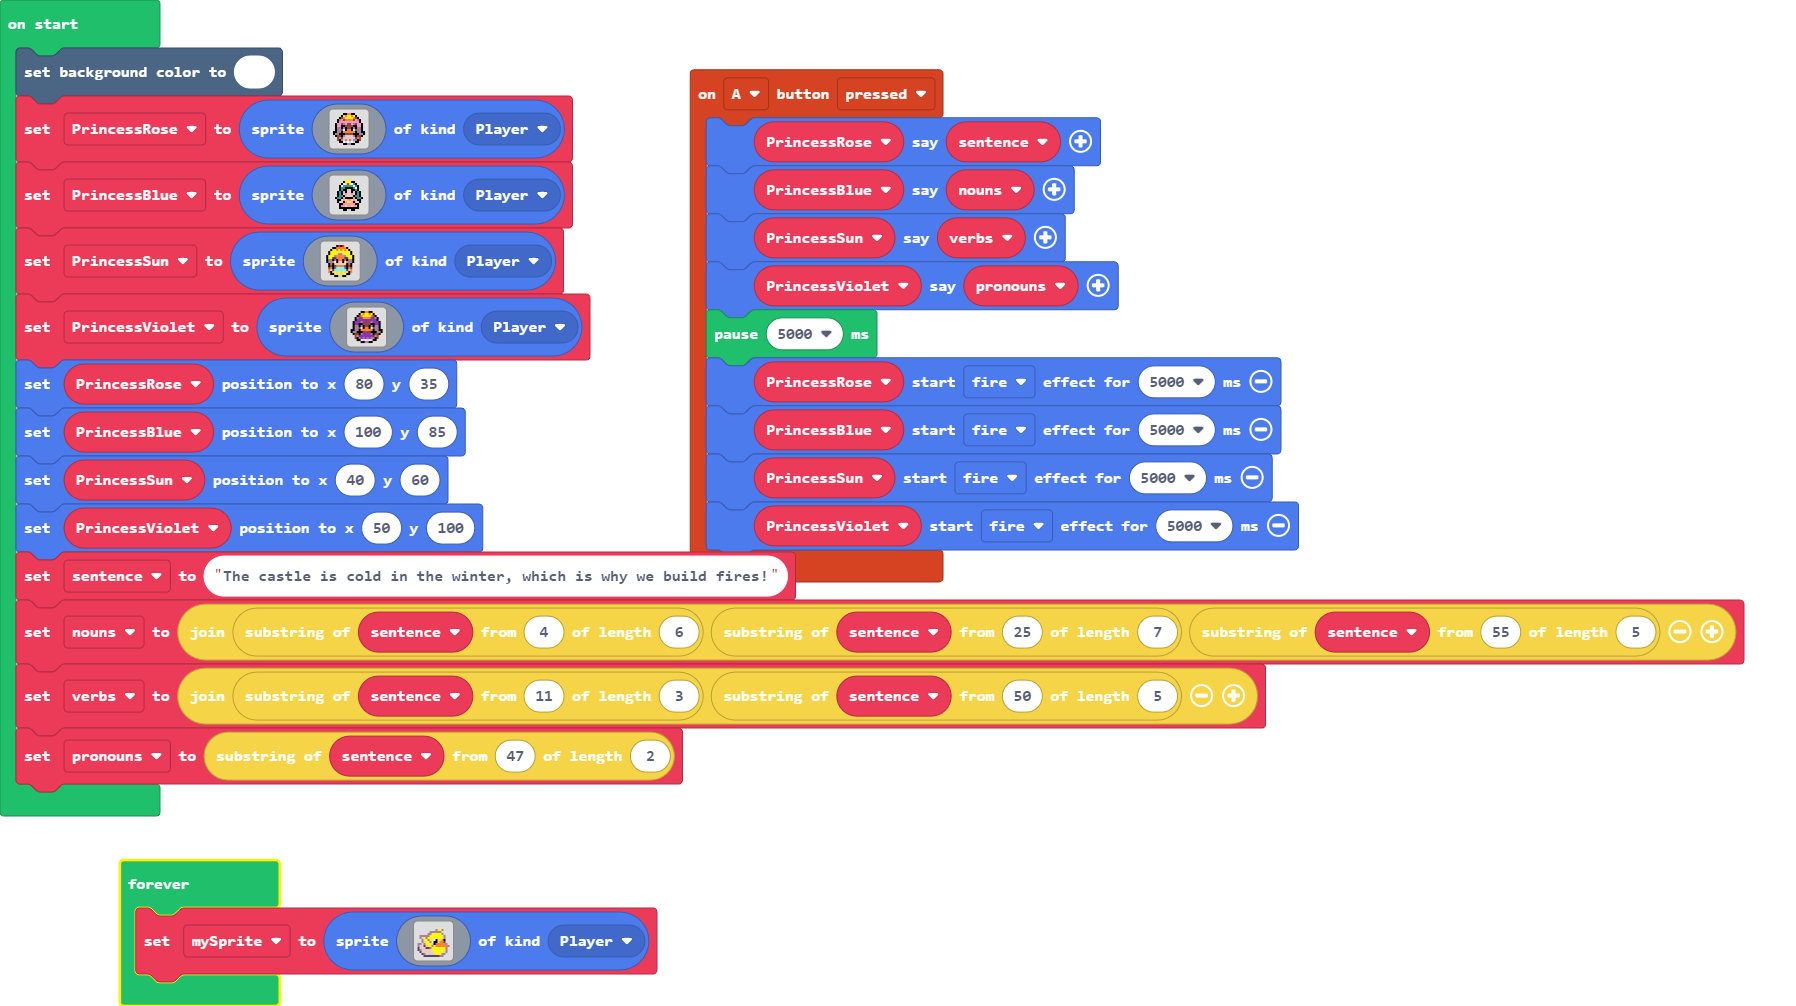
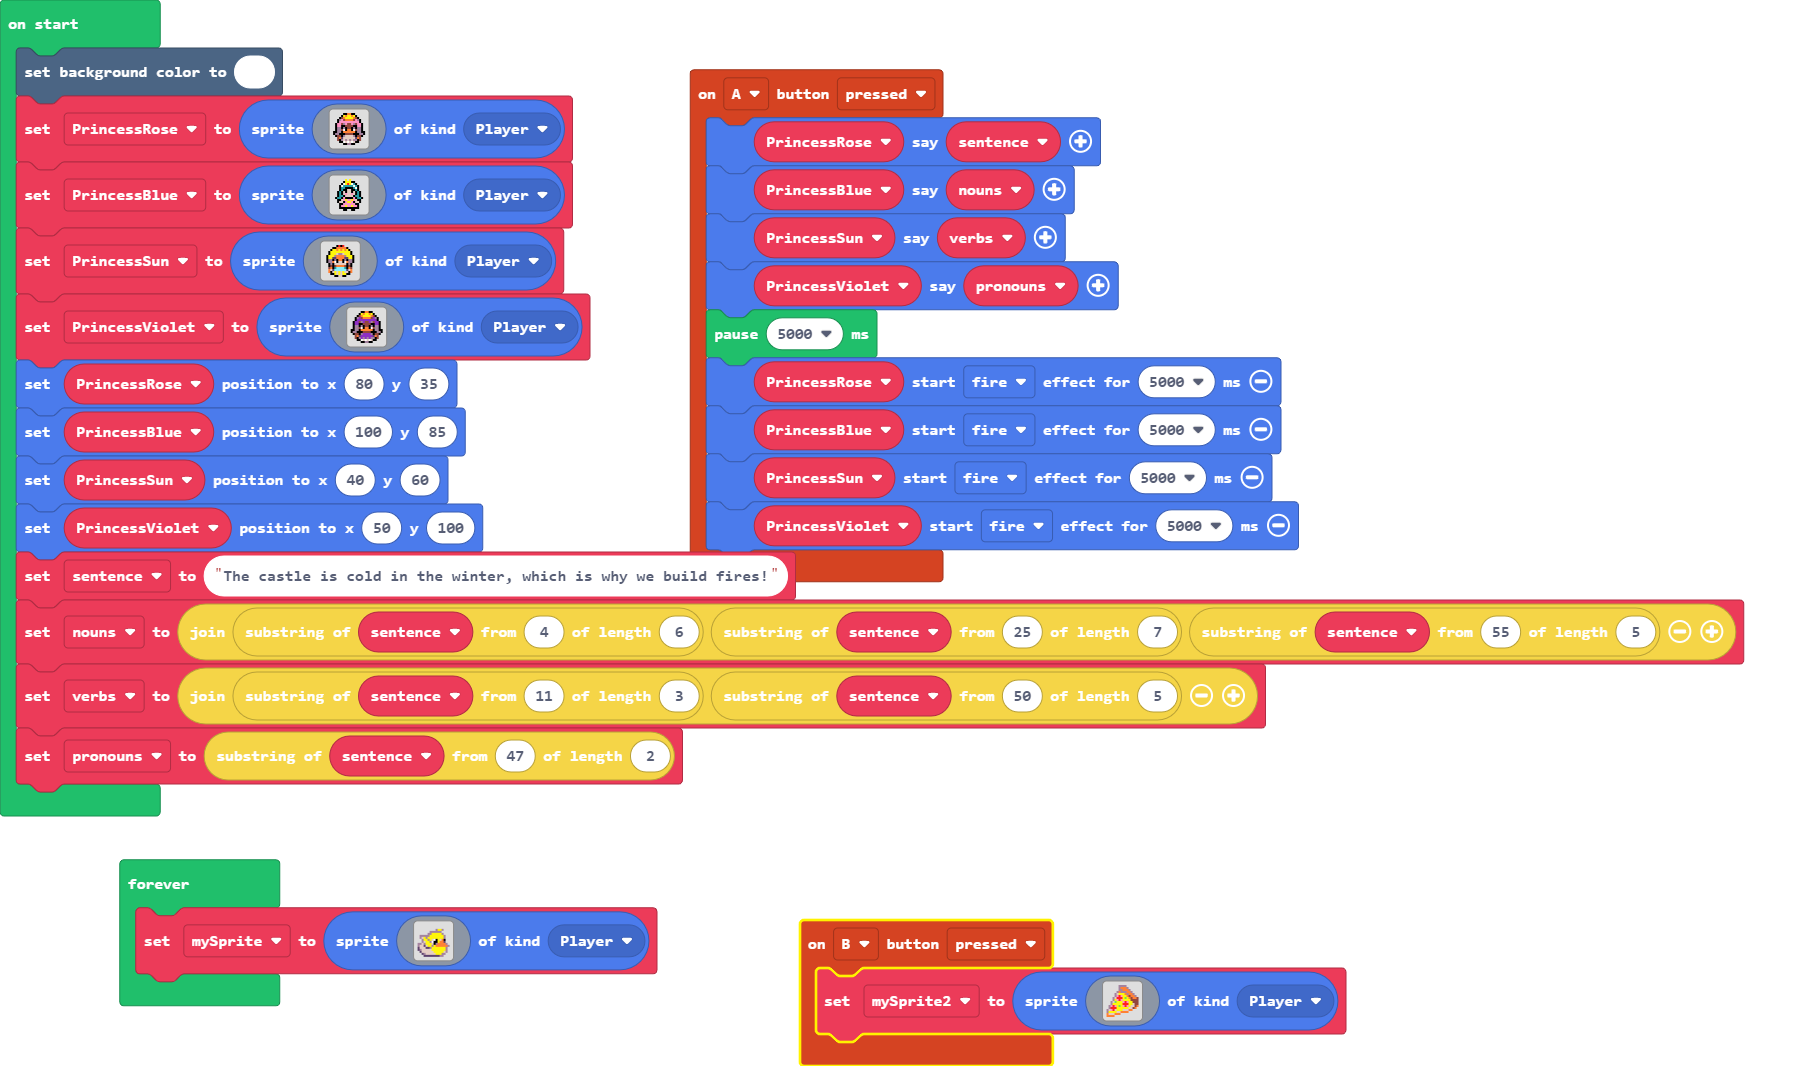
Update main.blocks, main.ts

diff --git a/main.ts b/main.ts
@@ -1,3 +1,23 @@
+controller.B.onEvent(ControllerButtonEvent.Pressed, function () {
+    mySprite2 = sprites.create(img`
+        . . . . . . b b b b . . . . . . 
+        . . . . . . b 4 4 4 b . . . . . 
+        . . . . . . b b 4 4 4 b . . . . 
+        . . . . . b 4 b b b 4 4 b . . . 
+        . . . . b d 5 5 5 4 b 4 4 b . . 
+        . . . . b 3 2 3 5 5 4 e 4 4 b . 
+        . . . b d 2 2 2 5 7 5 4 e 4 4 e 
+        . . . b 5 3 2 3 5 5 5 5 e e e e 
+        . . b d 7 5 5 5 3 2 3 5 5 e e e 
+        . . b 5 5 5 5 5 2 2 2 5 5 d e e 
+        . b 3 2 3 5 7 5 3 2 3 5 d d e 4 
+        . b 2 2 2 5 5 5 5 5 5 d d e 4 . 
+        b d 3 2 d 5 5 5 d d d 4 4 . . . 
+        b 5 5 5 5 d d 4 4 4 4 . . . . . 
+        4 d d d 4 4 4 . . . . . . . . . 
+        4 4 4 4 . . . . . . . . . . . . 
+        `, SpriteKind.Player)
+})
 controller.A.onEvent(ControllerButtonEvent.Pressed, function () {
     PrincessRose.say(sentence)
     PrincessBlue.say(nouns)
@@ -10,6 +30,7 @@ controller.A.onEvent(ControllerButtonEvent.Pressed, function () {
     PrincessViolet.startEffect(effects.fire, 5000)
 })
 let mySprite: Sprite = null
+let mySprite2: Sprite = null
 let pronouns = ""
 let verbs = ""
 let nouns = ""
